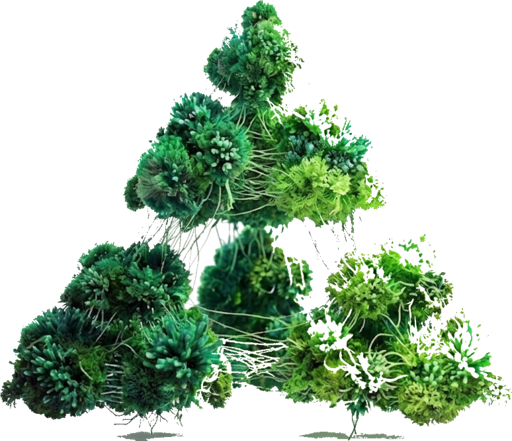
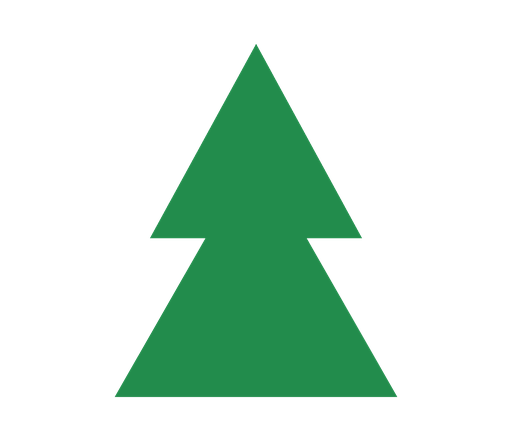
Replace HUD foliage photo with the FloraForge spruce mark
Swap the naturalistic foliage-sculpture photo behind the population readout
for the flat FloraForge spruce — the same two-tier conifer as the app icon /
favicon — in a darker forge green (#228c4c) for legibility over bright sky.

The population count now nests inside the spruce's lower canopy rather than
sitting beneath the image, with the weekly delta seated just above it in the
open canopy green. The whole mark is sized from the digit width, so the tree
stays proportioned at any population, and is more compact in the top-left
corner than the old photo.

Add tools/generate_hud_logo.py documenting how the asset is produced (mirrors
tools/generate_icon.py); the canvas stays 512 wide so the texture row pitch
meets wgpu's 256-byte copy alignment.

diff --git a/src/renderer_wgpu/hud_pass.rs b/src/renderer_wgpu/hud_pass.rs
@@ -55,9 +55,9 @@ impl HudPass {
 
         let (font, atlas_rgba) = MsdfFont::load();
 
-        // Plant-count backdrop: a white-keyed photo of a foliage sculpture, drawn as a
-        // translucent motif behind the population number. Its width is a multiple of 64
-        // so `bytes_per_row` (w * 4) meets wgpu's 256-byte copy alignment.
+        // Plant-readout brand mark: the flat FloraForge spruce, drawn as a translucent
+        // motif with the population count seated inside its lower canopy. Its width is a
+        // multiple of 64 so `bytes_per_row` (w * 4) meets wgpu's 256-byte copy alignment.
         let backdrop_png = include_bytes!("../../assets/hud/plant_count.png");
         let backdrop = image::load_from_memory(backdrop_png)
             .expect("decode plant_count.png")
@@ -159,7 +159,7 @@ impl HudPass {
         drop(atlas_rgba);
 
         // --- Backdrop texture ---
-        // sRGB so the photo's colors are interpreted correctly; the MSDF atlas above is
+        // sRGB so the brand-green is interpreted correctly; the MSDF atlas above is
         // a non-color distance field and stays Unorm.
         let backdrop_size = wgpu::Extent3d {
             width: backdrop_w,
@@ -320,23 +320,24 @@ impl HudPass {
         let font = &self.font;
 
         // --- Plant readout (top-left) ---
-        // A white-keyed foliage photo sits on top; the population count stacks just below
-        // it, then a red/green weekly delta. No panel, no label — the backdrop says
-        // "plants" on its own; drop shadows keep the type legible over the scene.
+        // The FloraForge spruce sits top-left as a translucent brand mark; the population
+        // count nestles inside its lower canopy, then a red/green weekly delta below the
+        // tree. Drop shadows keep the digits legible over the green and the scene.
         let margin = 18.0;
 
-        let hero_px = 48.0;
+        let hero_px = 28.0;
         let hero = format_grouped_count(plant_count as i64);
         let hero_w = font.measure(&hero, hero_px);
 
-        // Backdrop sized to overhang the number's width so the foliage frames it.
-        let bw = hero_w + 60.0;
+        // Tree sized so its lower canopy is wide enough to seat the number (the silhouette
+        // is ~0.54 of the image width, so 2.5× the digit width clears it comfortably).
+        let bw = hero_w * 2.5;
         let bh = bw / self.backdrop_aspect;
-        push_image_quad(&mut verts, margin, margin, bw, bh, [1.0, 1.0, 1.0, 0.85]);
+        push_image_quad(&mut verts, margin, margin, bw, bh, [1.0, 1.0, 1.0, 0.92]);
 
-        // Count centered horizontally under the image, sitting just below its bottom edge.
+        // Count centered horizontally; seated low in the lower canopy near the base.
         let hero_x = margin + (bw - hero_w) * 0.5;
-        let hero_y = margin + bh + 4.0;
+        let hero_y = margin + bh * 0.82 - font.ascender * hero_px * 0.5;
         push_text_shadowed(
             font,
             &hero,
@@ -348,9 +349,10 @@ impl HudPass {
         );
 
         // Weekly delta: green for a net gain, red for a net loss, led by an arrow.
-        // Centered under the count; a full hero-em down so the comma descender clears it.
-        let delta_px = 18.0;
-        let delta_y = hero_y + hero_px;
+        // Seated just above the count, in the open green of the lower canopy, so it doesn't
+        // crowd the spruce's base line.
+        let delta_px = hero_px * 0.42;
+        let delta_y = hero_y - delta_px * 1.4;
         let gain = weekly_delta >= 0;
         let delta_color = if gain {
             [0.49, 0.89, 0.55, 0.95]

diff --git a/tools/generate_hud_logo.py b/tools/generate_hud_logo.py
@@ -1,0 +1,48 @@
+"""Generate the HUD plant-readout brand mark (`assets/hud/plant_count.png`).
+
+The flat FloraForge spruce — the same two-tier conifer as the app icon / favicon —
+rendered in a darker forge green on a transparent canvas, sized so the renderer can
+seat the live population count inside its lower canopy. The HUD draws it translucently
+in the top-left corner.
+
+Favicon geometry (viewBox 0..64), the source of truth for the silhouette:
+    upper triangle (32,12)(44,34)(20,34)
+    lower triangle (32,24)(48,52)(16,52)
+
+The canvas width must stay a multiple of 64: the renderer uploads the image with
+`bytes_per_row = width * 4`, which wgpu requires to be 256-byte aligned.
+"""
+
+from PIL import Image, ImageDraw
+import os
+
+W, H = 512, 441  # width multiple of 64 for the texture row pitch; aspect ~1.16
+SS = 4           # supersample for crisp anti-aliased edges
+GREEN = (34, 140, 76)  # #228c4c — darker forge green for HUD legibility over sky
+VFRAC = 0.80     # tree height as a fraction of the canvas (leaves breathing room)
+
+UPPER = [(32, 12), (44, 34), (20, 34)]
+LOWER = [(32, 24), (48, 52), (16, 52)]
+MINX, MAXX, MINY, MAXY = 16, 48, 12, 52
+
+
+def render():
+    img = Image.new("RGBA", (W * SS, H * SS), (0, 0, 0, 0))
+    d = ImageDraw.Draw(img, "RGBA")
+    scale = (H * SS * VFRAC) / (MAXY - MINY)
+    tw, th = (MAXX - MINX) * scale, (MAXY - MINY) * scale
+    ox, oy = (W * SS - tw) / 2, (H * SS - th) / 2
+    for tri in (LOWER, UPPER):  # lower first so the upper tier overlaps cleanly
+        pts = [((x - MINX) * scale + ox, (y - MINY) * scale + oy) for x, y in tri]
+        d.polygon(pts, fill=GREEN)
+    return img.resize((W, H), Image.LANCZOS)
+
+
+def main():
+    out = os.path.join(os.path.dirname(__file__), "..", "assets", "hud", "plant_count.png")
+    render().save(out, "PNG")
+    print(f"Saved HUD brand mark: {out}")
+
+
+if __name__ == "__main__":
+    main()
